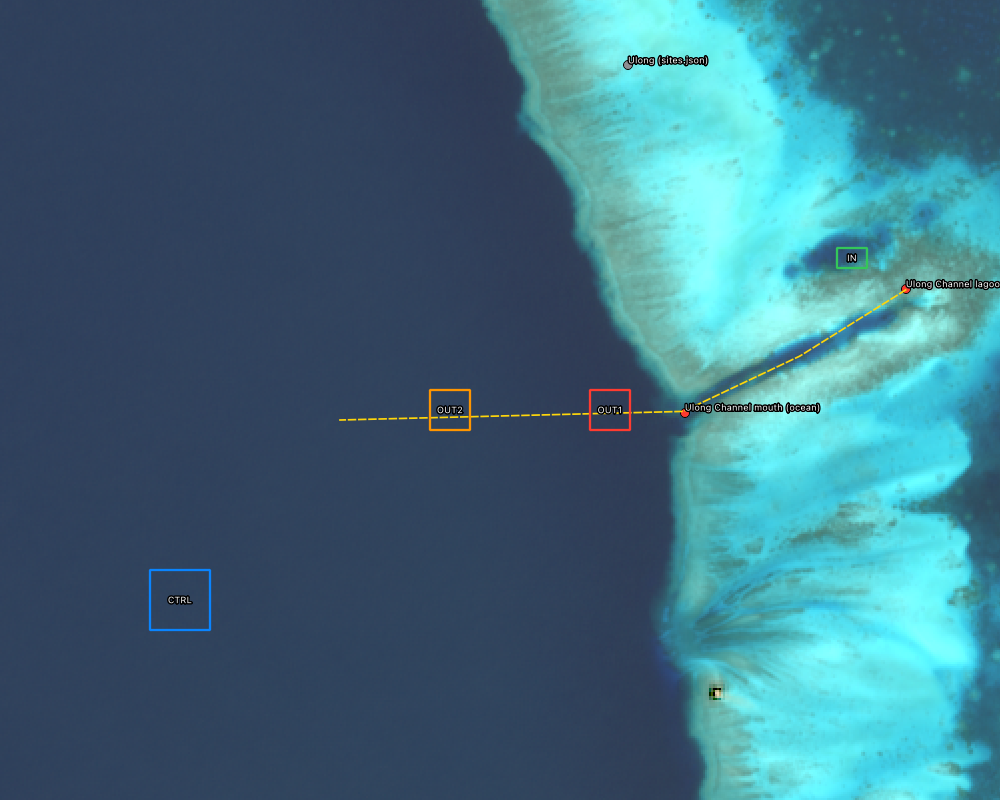
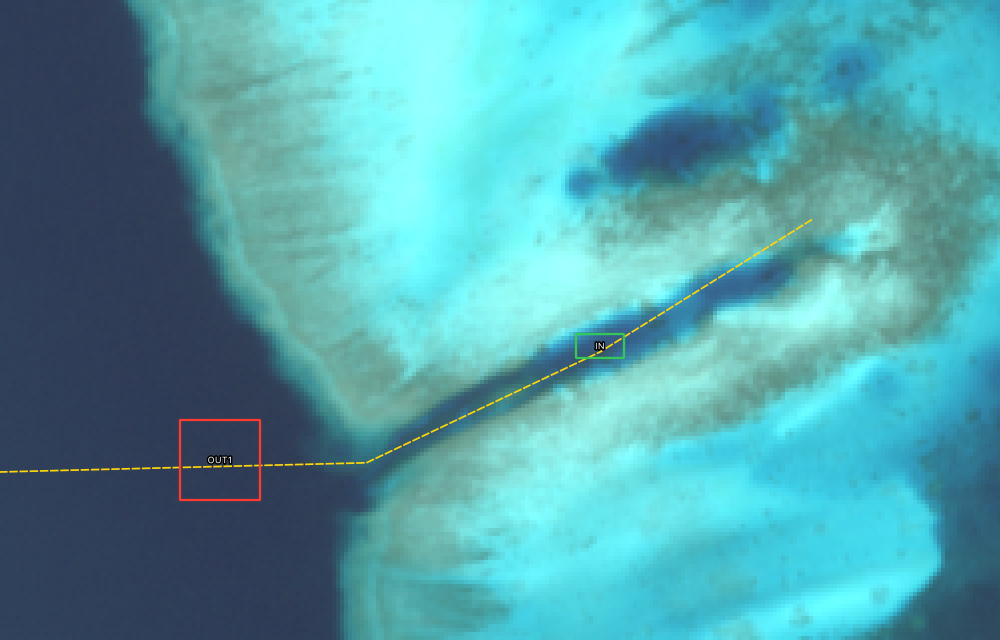
Project 3: IN boxes moved into the channels after review; plain-language summary [skip ci]
Claude-Session: https://claude.ai/code/session_0126HS9k945xRsTLPt3zSaJP

diff --git a/analysis/project3/RESULTS.md b/analysis/project3/RESULTS.md
@@ -1,9 +1,18 @@
 # 项目 3 结果：用 Sentinel-2 看水道口羽流
 
-> 完成日期：2026-11-16  
+> 完成日期：2026-11-16（取样框经 Lowis 审核，同日定稿）  
 > 结论一句话：**乌龙水道看不到羽流信号；德国水道有弱信号，指向"在 Malakal 高潮前后转外流"，和简报现在用的 0 分钟延迟一致，但精度不够，不能用来校准。简报里的延迟不改。**
 
 ---
+
+## 0. 简单版结论
+- **问题**：乌龙、德国水道相对 Malakal 高潮几点开始往外流？想用卫星照片看落潮时水道口有没有"浑水往外喷"，以此判断。
+- **答案**：
+  - **乌龙**：照片上完全看不出来。外面是直落深海的礁墙，泻湖水一出来就被稀释。
+  - **德国**：看得到一点点。落潮时出水口外约 600 米内的水稍浑。算出来大约是"高潮前后开始外流"，但误差有 ±50 分钟左右，太粗。
+- **对简报的影响**：不改。两个水道的延迟仍是 0 分钟。德国的结果和现有设定方向一致，算是旁证。
+- **为什么不准**：卫星每天只在 10:35 拍一次，涨潮时拍到的几乎都是小潮日，可以比较的涨潮照片只有约 10 张。
+- **以后怎么变准**：靠潜水记录。每个水道记 10–15 次"什么时候转流"，比卫星准得多。
 
 ## 1. 做了什么
 
@@ -85,10 +94,12 @@ OUT1 − CTRL 红光（反射率 ×10⁴）：
 ## 5. 还可以做的（都不急）
 - **潜水记录**仍然是校准延迟最直接的办法：每次在乌龙、德国记下"什么时候转流"，攒到 10–15 条就能把误差压到 ±20 分钟左右。
 - **Sentinel-1 雷达**（06:20 / 18:20 过境）能拍到其他潮汐阶段，但雷达看到的是海面粗糙度和流隔线，不是浑浊度。成功率不确定，投入大约 1–2 天。建议有了潜水记录再决定。
-- **取样框**目前是草稿，Lowis 可以在 QGIS 里修改：
-  - 德国 OUT1 所在的湾顶可能偏浅、看得到海底，影响颜色；
-  - 乌龙 IN 框放在了水道北侧的深坑，不在水道正中。
-  改完我可以再跑一次，约 15 分钟，但预计结论不会变。
+- **取样框已定稿**（2026-11-16，Lowis 审核）：
+  - OUT1、OUT2、CTRL 位置确认无误。
+  - 两个 IN 框原来偏了：乌龙的放在水道北侧的深坑，德国的压在水沟西侧的沙坡上。已按合成图的深水带移到水道正中：
+    - 乌龙 IN 在出水口内约 650 m 的水道中心，120×60 m；
+    - 德国 IN 在出水口内深沟的中心，160×100 m。
+  - IN 框不参与羽流指数（OUT − CTRL）的计算，所以结论不受影响，没有重跑。
 
 ## 6. 文件
 - 代码：`scripts/analysis_p3/`
